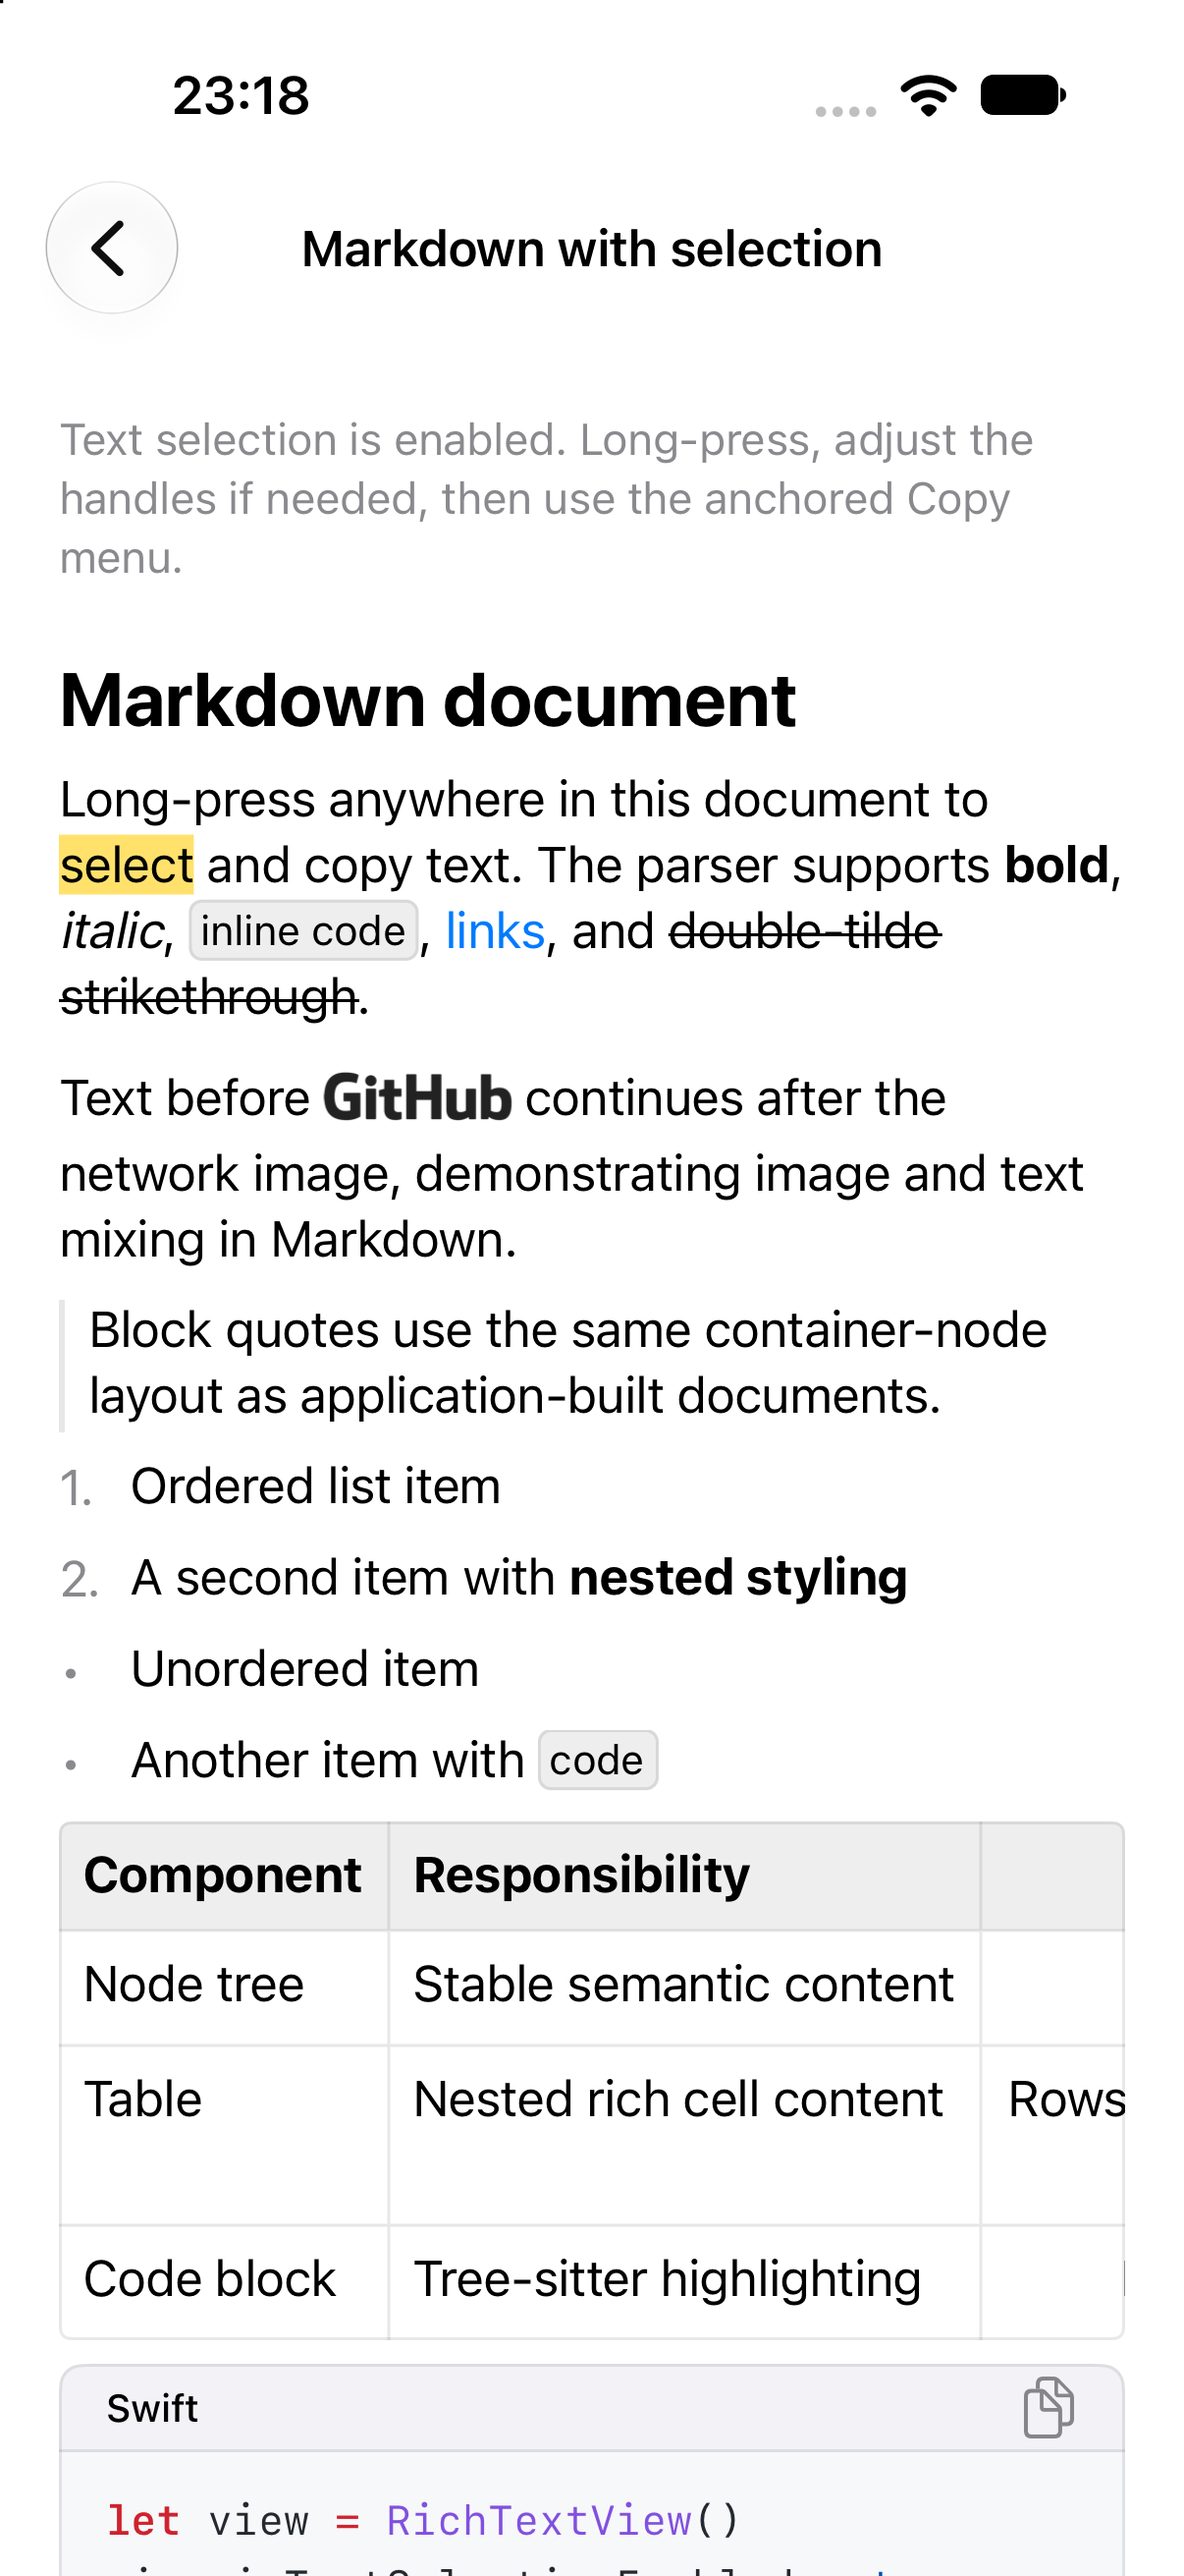
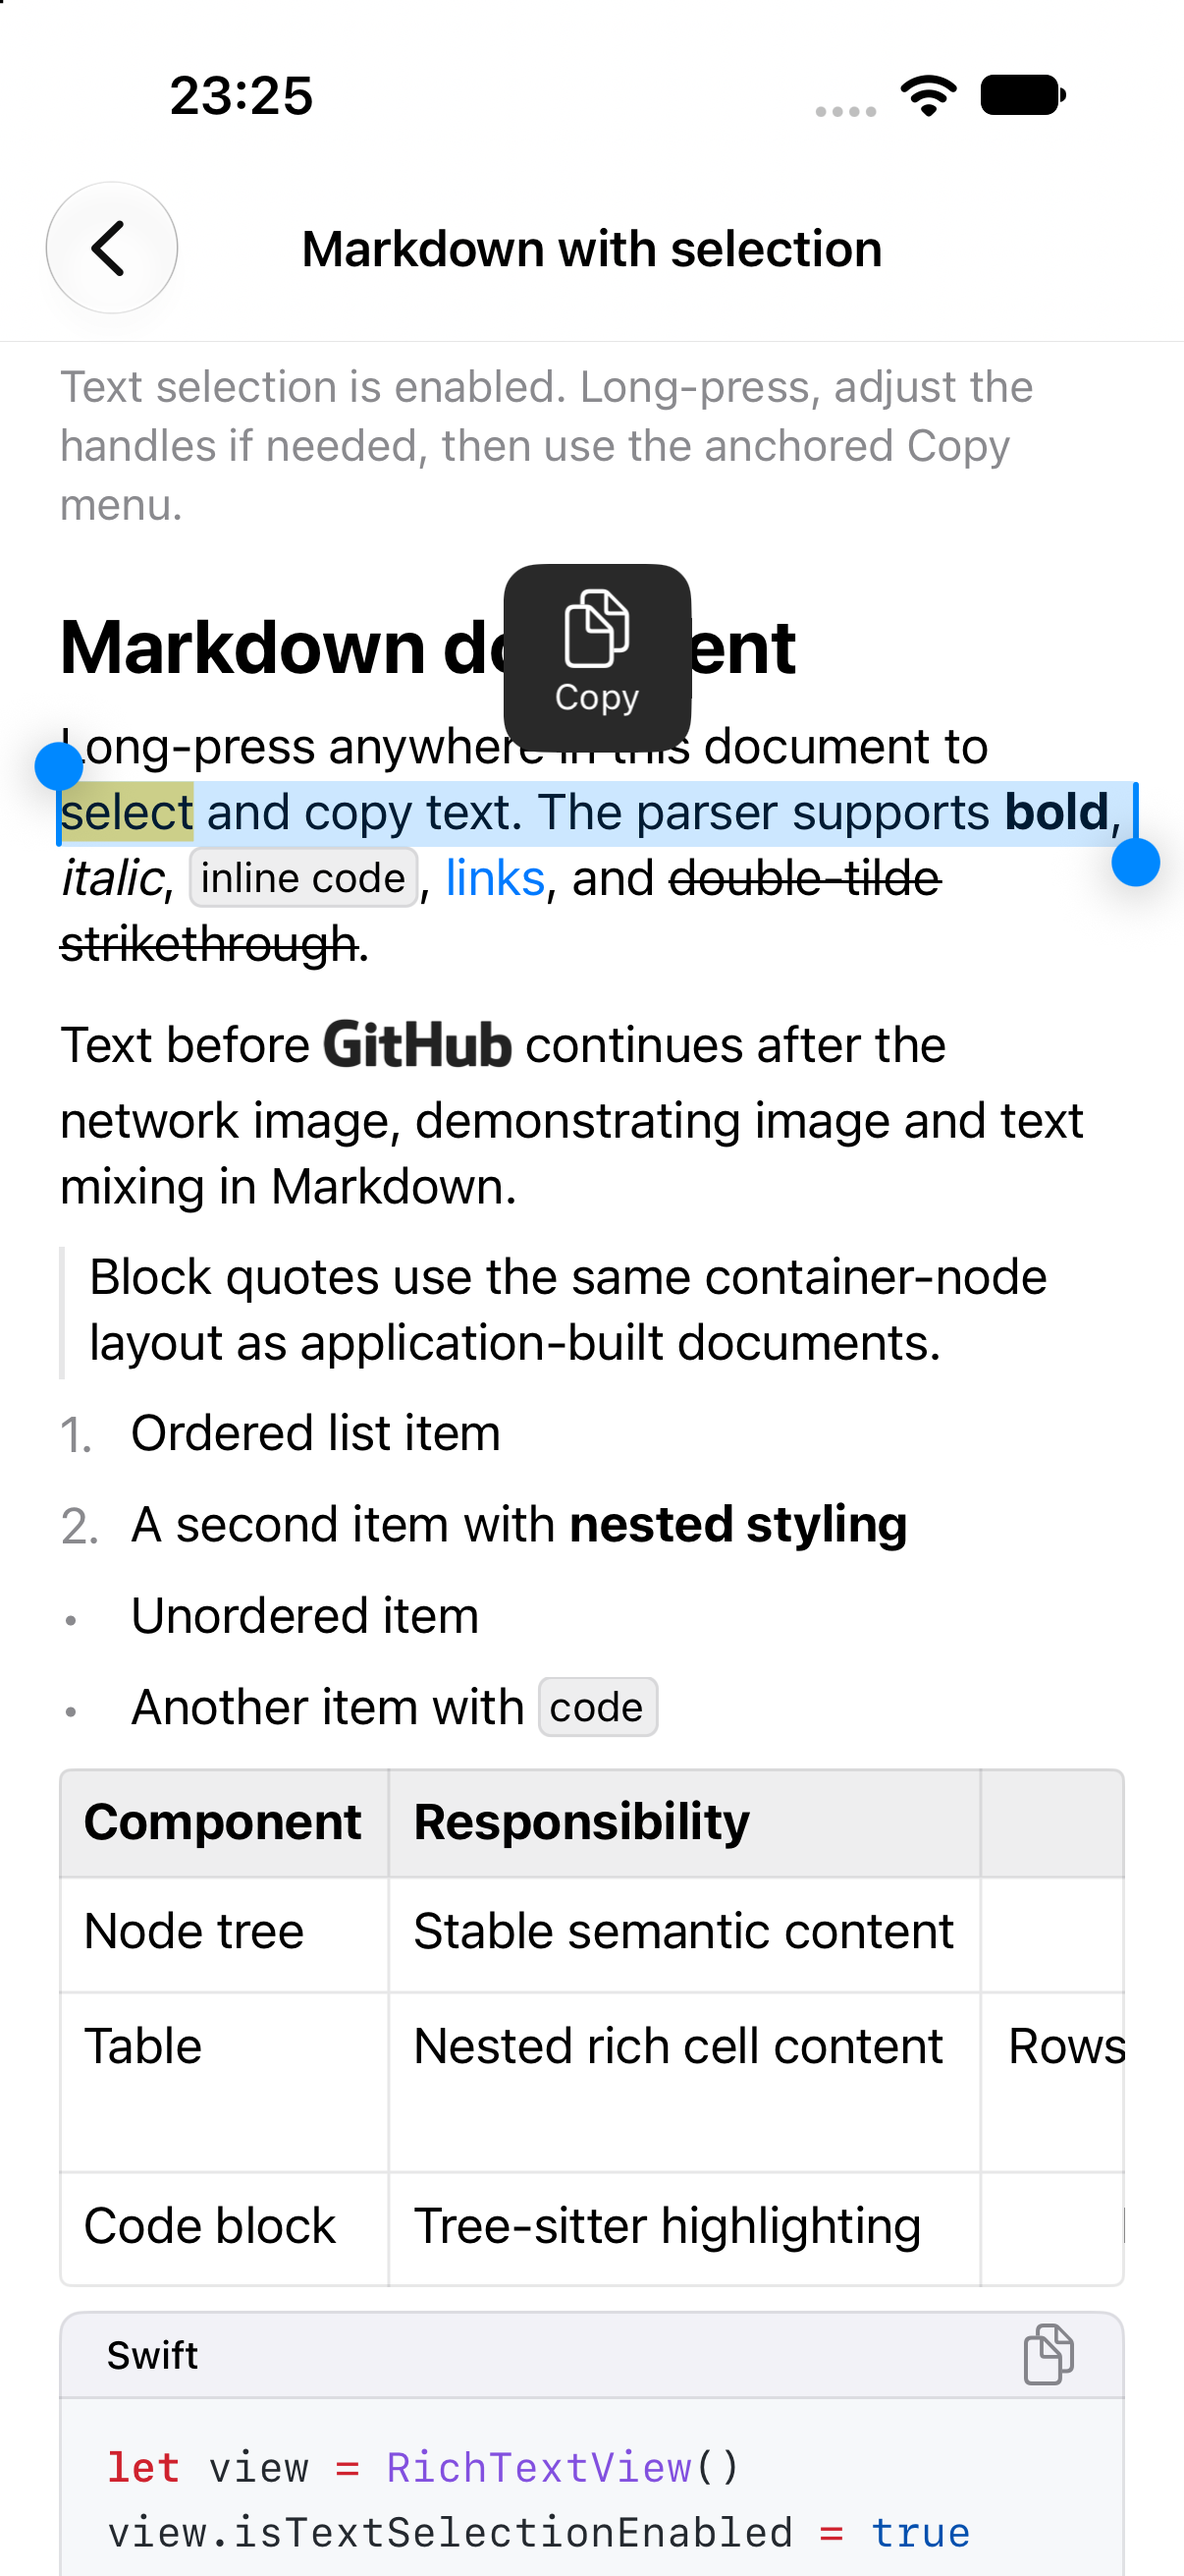
chore(readme): refresh markdown selection screenshot

diff --git a/README.md b/README.md
@@ -16,7 +16,7 @@ networking, or image-cache dependencies.
 <table>
   <tr>
     <td align="center"><img src="Documentation/Images/example-node-tree.png" width="240" alt="Unified node tree"><br><sub>Unified node tree</sub></td>
-    <td align="center"><img src="Documentation/Images/example-markdown.png" width="240" alt="Selectable Markdown and tables"><br><sub>Selectable Markdown and tables</sub></td>
+    <td align="center"><img src="Documentation/Images/example-markdown.png" width="240" alt="Markdown selection and Copy menu"><br><sub>Markdown selection and Copy menu</sub></td>
     <td align="center"><img src="Documentation/Images/example-math.png" width="240" alt="Native LaTeX formulas"><br><sub>Native LaTeX formulas</sub></td>
   </tr>
 </table>
